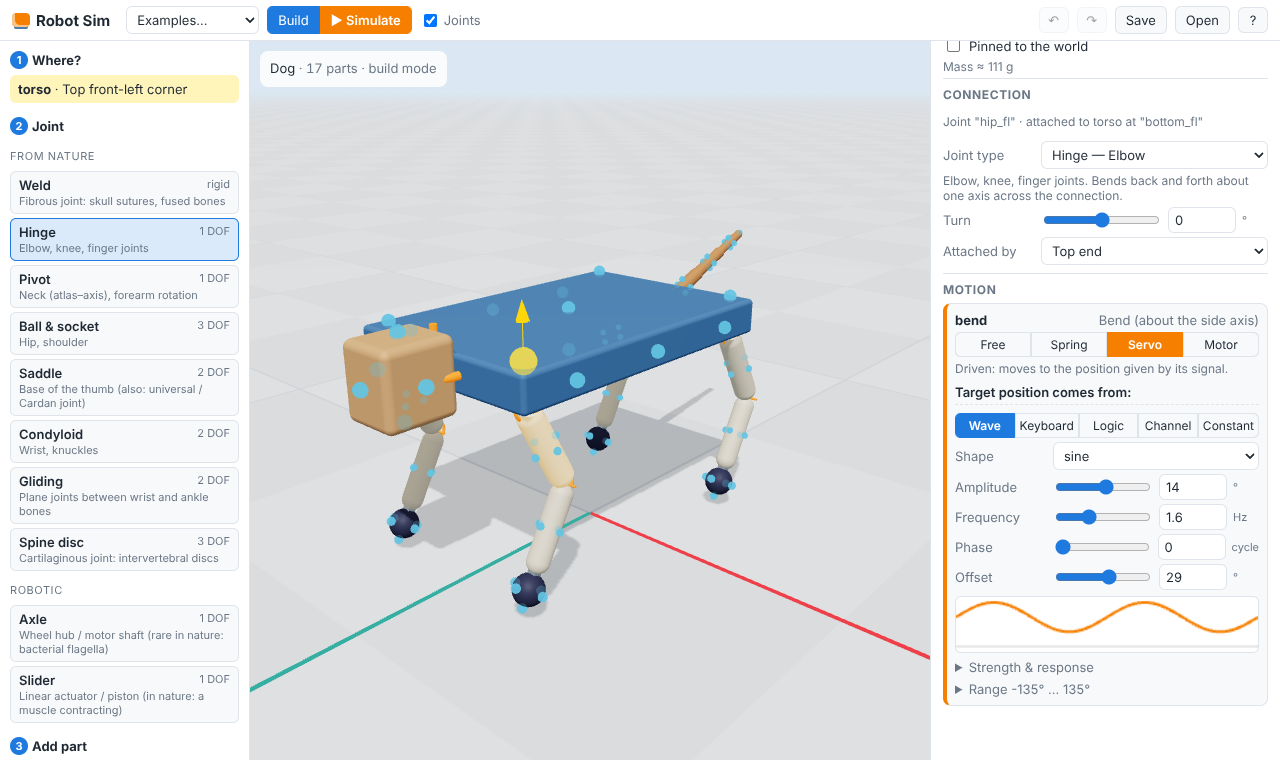
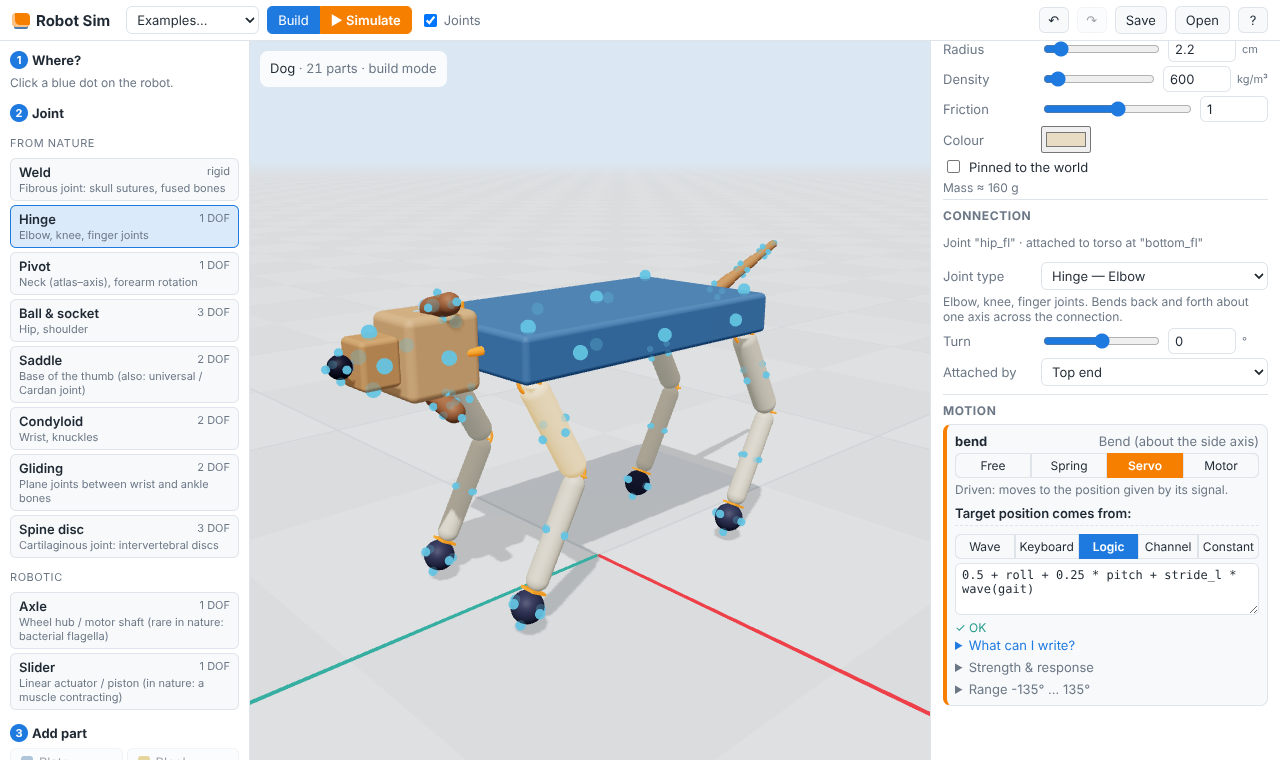
Weigh wheels correctly, guide walker builders, refresh the docs
Wheels: Rapier leaves the rounded rim of a round cylinder out of its mass,
so every wheel weighed 40% of what the panel showed. Rounded shapes now get
their mass set directly; a test checks that every part type weighs its
volume times its density. The balancer gets a wider track to match its
heavier wheels and now catches app-strength shoves to its head from any side.

Inspector: a joint with several driven rotation axes shows a tip that such
servos go soft when bent and loaded, and that legs work better as chains of
single-axis hinges.

README: the new examples, a "Making a walker work" section (single-axis
hinge chains, one gait clock, lean reflexes, why turning needs sideways
motion, heading hold), updated tests and physics notes, and new screenshots
of the dog's hip formula and the spider walking.

Claude-Session: https://claude.ai/code/session_019xXq2sRNebQgx9WkoUsm7e

diff --git a/src/ui/inspector.ts b/src/ui/inspector.ts
@@ -5,7 +5,7 @@
  */
 import type { Assembly } from '../core/assembly';
 import { type Blueprint, type ValidationResult, blueprintScope, usedSnaps } from '../core/blueprint';
-import { DRIVE_MODES, type DriveMode, resolveDrive } from '../core/drives';
+import { DRIVE_MODES, type DriveMode, isDriven, resolveDrive } from '../core/drives';
 import { changeJointType, jointSpec, parentJointOf, partSpec, removePart, setChannel, setDriveMode, setPartSize, setSignal, updateDof, updateDrive, updateJoint, updatePart } from '../core/edit';
 import { RESERVED_NAMES } from '../core/expression';
 import { type DofDef, JOINT_TYPE_LIST, type JointType, getJointType } from '../core/joints';
@@ -342,8 +342,17 @@ function partPanel(ctx: InspectorContext, partId: string): HTMLElement[] {
       ),
     );
     out.push(connection);
-    if (jdef.dofs.length) out.push(section(jdef.dofs.length > 1 ? 'Degrees of freedom' : 'Motion', ...jdef.dofs.map((d) => dofCard(ctx, j.id, d))));
-    else out.push(section('Motion', h('p', { class: 'muted' }, 'A weld has no motion: the two parts act as one.')));
+    if (jdef.dofs.length) {
+      const cards = jdef.dofs.map((d) => dofCard(ctx, j.id, d));
+      // The physics engine solves several driven rotation axes of one joint
+      // together; bent and loaded, they hold far less firmly than a hinge.
+      const rotations = jdef.dofs.filter((d) => d.kind === 'angular');
+      const driven = rotations.some((d) => isDriven(resolveDrive(j.dofs?.[d.name]?.drive, d, jdef.defaultDrive).mode));
+      if (rotations.length > 1 && driven) {
+        cards.push(h('p', { class: 'hint' }, 'Tip: servos on a joint with several rotation axes go soft when it is bent and carrying weight. For legs, chain single-axis hinges instead (turn one a quarter turn to swing sideways), like the Dog, Spider and Salamander.'));
+      }
+      out.push(section(jdef.dofs.length > 1 ? 'Degrees of freedom' : 'Motion', ...cards));
+    } else out.push(section('Motion', h('p', { class: 'muted' }, 'A weld has no motion: the two parts act as one.')));
   } else {
     out.push(section('Connection', h('p', { class: 'muted' }, 'This is the root part: everything else hangs off it.')));
   }

diff --git a/src/presets/balancer.ts b/src/presets/balancer.ts
@@ -22,7 +22,7 @@ export function balancer(): Blueprint {
   const wheel = { type: 'wheel' as const, size: { radius: 0.12, thickness: 0.05 } };
   const motor = (expr: string) => ({ spin: { drive: { mode: 'motor' as const, gain: 20, maxForce: 15, signal: { kind: 'expression' as const, expr } } } });
   const b = new RobotBuilder('Balancer', 'Two-wheeled inverted pendulum that balances itself with a feedback loop on its pitch sensor.')
-    .root('chassis', 'block', { size: { x: 0.2, y: 0.08, z: 0.08 }, density: 500, color: '#495057' })
+    .root('chassis', 'block', { size: { x: 0.26, y: 0.08, z: 0.08 }, density: 500, color: '#495057' })
     .channel('lean', { kind: 'expression', expr: '-pitch' })
     .channel('cruise', { kind: 'expression', expr: 'smooth(0.6 * clamp(axis("up", "down") + axis("w", "s"), -1, 1), 0.6)' })
     .channel('aim', { kind: 'expression', expr: 'clamp(0.15 * (cruise - forward) + 0.1 * integrate(cruise - forward, -1, 1), -0.15, 0.15)' })
@@ -33,7 +33,7 @@ export function balancer(): Blueprint {
     .attach('axle_l', 'wheel', 'chassis.left', { id: 'wheel_l', ...wheel }, { dofs: motor('drive - steer') })
     .attach('axle_r', 'wheel', 'chassis.right', { id: 'wheel_r', ...wheel }, { dofs: motor('-(drive + steer)') })
     .attach('waist', 'weld', 'chassis.top', { id: 'body', type: 'block', size: { x: 0.11, y: 0.2, z: 0.07 }, density: 400, color: '#e9c46a' })
-    .attach('collar', 'weld', 'body.top', { id: 'shoulders', type: 'plate', size: { width: 0.4, thickness: 0.03, length: 0.08 }, density: 250, color: '#2a9d8f' })
+    .attach('collar', 'weld', 'body.top', { id: 'shoulders', type: 'plate', size: { width: 0.46, thickness: 0.03, length: 0.08 }, density: 250, color: '#2a9d8f' })
     .attach('neck', 'weld', 'shoulders.top', { id: 'head', type: 'sphere', size: { radius: 0.06 }, density: 800, color: '#264653' })
     .attach('face', 'weld', 'head.front', { id: 'visor', type: 'block', snap: 'back', size: { x: 0.07, y: 0.025, z: 0.015 }, density: 300, color: '#90e0ef' });
   for (const [side, corner] of [['l', 'bottom_fl'], ['r', 'bottom_fr']] as const) {

diff --git a/tests/physics-joints.test.ts b/tests/physics-joints.test.ts
@@ -8,6 +8,7 @@ import type { Blueprint, DofSpec } from '../src/core/blueprint';
 import { RobotBuilder } from '../src/core/builder';
 import type { SignalSpec } from '../src/core/signals';
 import { JOINT_TYPE_LIST, type JointType } from '../src/core/joints';
+import { PART_TYPE_LIST, shapeVolume } from '../src/core/parts';
 import { type Robot, Simulation } from '../src/physics/simulation';
 
 let sim: Simulation | null = null;
@@ -301,6 +302,15 @@ describe('building', () => {
     run(robot, 1);
     expect(robot.touching('foot')).toBe(true);
     expect(robot.touching('hat')).toBe(false);
+  });
+
+  it('every part weighs its volume times its density', async () => {
+    sim = await Simulation.create({ ground: false, gravity: 0 });
+    for (const def of PART_TYPE_LIST) {
+      const robot = sim.addRobot(new RobotBuilder(def.type).root('p', def.type, { density: 700 }).spawn({ position: { x: 0, y: 1, z: 0 } }).build());
+      const part = robot.parts.get('p')!;
+      expect(part.body.mass(), def.type).toBeCloseTo(700 * shapeVolume(part.asm.shape), 6);
+    }
   });
 
   it('touch sensors ignore parts that are merely close to the ground', async () => {

diff --git a/src/physics/simulation.ts b/src/physics/simulation.ts
@@ -32,7 +32,7 @@ import {
   v3,
   wrapAngle,
 } from '../core/math';
-import type { Shape } from '../core/parts';
+import { type Shape, shapeVolume } from '../core/parts';
 import { type Rapier, loadRapier } from './rapier';
 
 type World = RAPIER_NS.World;
@@ -293,7 +293,11 @@ export class Robot implements BrainSenses {
         .setTranslation(part.pose.p.x, part.pose.p.y, part.pose.p.z)
         .setRotation(part.pose.q);
       const body = world.createRigidBody(desc);
-      const cdesc = colliderDesc(R, part.shape).setDensity(part.density).setFriction(part.friction);
+      const cdesc = colliderDesc(R, part.shape).setFriction(part.friction);
+      // Rapier leaves the rounded rim of a wheel out of its mass (40% of it
+      // for a stock wheel), so rounded shapes get their mass set directly.
+      if (part.shape.kind === 'cylinder' && part.shape.rounding) cdesc.setMass(part.density * shapeVolume(part.shape));
+      else cdesc.setDensity(part.density);
       if (groups !== null) cdesc.setCollisionGroups(groups);
       const collider = world.createCollider(cdesc, body);
       this.ownColliders.add(collider.handle);

diff --git a/tests/scenarios.test.ts b/tests/scenarios.test.ts
@@ -349,7 +349,7 @@ describe('balancer', () => {
   });
 
   it('catches itself when its head is given an app-strength shove', async () => {
-    for (const direction of [v3(0, 0.2, 1), v3(0, 0.2, -1), v3(0.7, 0.2, 0.7)]) {
+    for (const direction of [v3(0, 0.2, 1), v3(0, 0.2, -1), v3(1, 0.2, 0), v3(0.7, 0.2, 0.7)]) {
       const robot = await spawn(balancer());
       run(robot, 2);
       const strength = 0.6 * robot.totalMass();

diff --git a/README.md b/README.md
@@ -7,8 +7,8 @@ Then decide, joint by joint, what is **free and floppy** and what **follows a
 signal**: a wave, the keyboard, a logic formula reading sensors, or a controller
 written in code. Press *Simulate* and the robot comes alive in a 3D physics world.
 
-![Building: a dog's hip set to follow a sine wave](docs/build.png)
-![Simulating: a hexapod walking with a tripod gait](docs/simulate.png)
+![Building: the dog's hip follows a formula on the shared gait clock, with balance reflexes](docs/build.png)
+![Simulating: a spider walking an alternating tetrapod gait, one hip plotted live](docs/simulate.png)
 
 ## Quick start
 
@@ -135,13 +135,43 @@ you type: unknown joints, DOFs, parts or channels are reported with a position.
 
 | Example | Shows |
 |---|---|
-| **Dog** | Trotting quadruped: hips and knees are servos following phase-shifted sine and pulse waves (diagonal legs in step); the tail is three springy spine discs; the head swings on a hinge turned 90°. |
+| **Dog** | The robot you start with: a steerable trotting quadruped. One `gait` clock drives servo hips and knees, diagonal legs in step; reflexes on `roll` and `pitch` extend the legs on the low side, and each paw sits on a *gliding* ankle that sweeps it sideways in stance — which is what lets a trot turn without its feet skidding. It walks off on its own: ←/→ steer, ↓ backs up, Space stops and starts it. Springy tail, floppy ears, and a head that looks into turns. |
+| **Spider** | An arachnid: eight legs fanned out like a spider's, walking an alternating tetrapod gait (L1 R2 L3 R4, then the other four). Each leg is two hinges — a hip turned a quarter turn swings it fore and aft, a knee lifts it. Steers like the dog and spins on the spot; the abdomen bobs on a spring and the fangs twitch. |
+| **Salamander** | A sprawling quadruped whose spine and tail swing in a wave locked to the legs. Timed right, the wave lengthens the stride (about 40% faster than the legs alone); timed wrong, it stalls. The neck turns against the wave to keep the head steady, and it steers by bending its spine. |
 | **Hexapod** | Tripod gait; every hip is a *saddle* joint with both axes driven by different waves. |
 | **Rover** | Four wheel motors mixing `throttle` and `steer` channels built from the keyboard (arrows / WASD); a springy antenna. |
+| **Balancer** | A two-wheeled inverted pendulum that stays up only through feedback: logic channels turn `pitch` into a lean, a speed loop on `forward` decides the lean it should hold, and the wheels run at `300 · ∫error + 60 · error`. Drive with ↑/↓, turn with ←/→, shove its head; its arms swing free. |
 | **Snake** | A travelling wave down a chain of servo hinges; free-spinning side wheels give the grip that turns it into forward motion. |
 | **Robot arm** | Pinned to the floor; keys jog the turntable (pivot), shoulder, elbow and wrist (condyloid); the fingers dangle on free hinges. |
 | **Pendulum chain** | Nothing driven at all: a hinge and ball joints released from a bent pose. |
 | **Empty plate** | Start from scratch. |
+
+## Making a walker work
+
+The Dog, Spider and Salamander are built from the same recipe:
+
+- **Single-axis joints in a chain.** Legs are hinges: a hip, then a knee. On a
+  side snap, a hinge turned a quarter turn (`R`) swings the leg fore and aft;
+  the next hinge, turned back, bends it down. Joints with several *driven*
+  rotation axes (saddle, ball, condyloid) are solved together by the physics
+  engine and go soft when they are bent and carrying weight — fine for a wrist
+  or a tail, not for a leg. Avoid small, light parts sandwiched between two
+  joints: a chain sags at such a link.
+- **One clock for every leg.** A channel `gait = integrate(2)` counts gait
+  cycles. Each hip follows `rest + stride * wave(gait + phase)` and each knee
+  `bend - lift * pulse(gait + phase + 0.75)`, which lifts the foot only while it
+  swings forward. The phases make the gait: diagonal pairs at 0 and 0.5 trot,
+  alternating groups of three or four legs make tripod and tetrapod gaits.
+- **Reflexes.** `roll` and `pitch` read the body's lean. Adding them to the
+  legs' crouch (`0.5 + roll + 0.25 * pitch` on the front left leg) extends the
+  legs on the low side, which keeps a trotting dog from tipping over.
+- **Turning needs sideways motion.** Feet in stance cannot skid, so a trot
+  whose legs only swing fore and aft goes straight however unequal the strides
+  are. Something has to move feet or body sideways: the Dog's paws glide, the
+  Salamander bends its spine, the Spider's fanned legs already push sideways.
+- **Steering with heading hold.** `heading = hold(yaw, steer != 0)` remembers
+  where the robot pointed when the keys were released, and
+  `atan2(sin(heading - yaw), cos(heading - yaw))` is the error to steer by.
 
 ## Blueprints and the code API
 
@@ -197,15 +227,15 @@ console.log(robot.jointPosition('swing'), robot.worstConnection());
 
 ## Tests
 
-`npm test` runs Vitest suites (about 12 s):
+`npm test` runs Vitest suites (about 35 s):
 
 - **parts** — every snap point lies on its part's surface, with an outward unit normal and a perpendicular up.
 - **assembly** — every part type snaps onto every other at every pair of snap points (over 1,000 combinations) with zero gap and opposed normals; turning, starting poses, long chains, spawning on the ground.
 - **blueprint** — validation catches duplicate ids, unknown parts/snaps/joints/DOFs, a snap used twice, two parents, loops, disconnected parts, bad limits, broken formulas and circular channels; JSON round-trips.
 - **edit** — building a walker click by click through the same operations the UI uses.
 - **signals / brain** — the expression language, waves, keyboard modes, channels, overrides.
-- **physics-joints** — in Rapier, every joint type stays connected (sub-millimetre, sub-degree) while being thrown around and respects its limits; free joints swing, springs return, servos track, motors spin, strength limits bind, logic can read other joints, overlapping parts ignore each other, live retuning works.
-- **scenarios** — the dog and hexapod walk forward without falling over (the dog for any solver quality from 8 to 16 iterations), the rover drives and turns on the right keys, the snake's motion comes from its wave, the arm jogs and holds, the pendulum conserves energy.
+- **physics-joints** — in Rapier, every joint type stays connected (sub-millimetre, sub-degree) while being thrown around and respects its limits; free joints swing, springs return, servos track, motors spin, strength limits bind, logic can read other joints, overlapping parts ignore each other, live retuning works; touch sensors count only real contact; wheels roll without hopping and the ground follows robots that travel far.
+- **scenarios** — the dog trots off, steers both ways and holds its new heading, backs up, stops and restarts on Space and keeps its feet when poked, for any solver quality from 8 to 16 iterations; the spider walks on its feet alone in two alternating groups of four legs, steers and spins on the spot; the salamander owes much of its speed to its body wave and stalls when the wave is mistimed; the balancer stays up only with its feedback loop, drives, turns and catches a shove to the head; the hexapod walks, the rover drives and turns on the right keys, the snake's motion comes from its wave, the arm jogs and holds, the pendulum conserves energy.
 
 ## How it is put together
 
@@ -227,7 +257,7 @@ src/
                    joint (free axes = the DOFs), joint motors for drives
   render/        three.js: viewport, part meshes, joint gizmos, snap markers
   ui/            panels, inspector, signal editor, scope; App.ts wires it all up
-  presets/       the example robots
+  presets/       the example robots (walker.ts: the steering brain the walkers share)
 tests/           Vitest suites
 ```
 
@@ -235,4 +265,11 @@ Physics notes: the world steps at 240 Hz with 12 solver iterations. Each
 joint's two local frames are exactly the frames from the assembly, so a DOF
 reading of zero always means "as snapped together". Servos use Rapier's implicit
 PD motors (stable at high stiffness) with a torque cap; free joints use a
-zero-speed velocity motor as viscous friction.
+zero-speed velocity motor as viscous friction. Rapier pushes each driven axis of
+a multi-axis joint about the parent's fixed axis, which stops matching the
+measured angle once the joint is bent, and it does not carry joint impulses over
+from one step to the next — so such a joint holds much less firmly than a hinge
+when it is bent and loaded (see *Making a walker work*). The ground is a 40 m slab that slides along under
+the robots: against a much larger box Rapier's contacts dip by millimetres,
+enough to make a slowly rolling wheel hop. `touching()` counts contact within
+3 mm, because Rapier also reports predicted contacts centimetres away.
